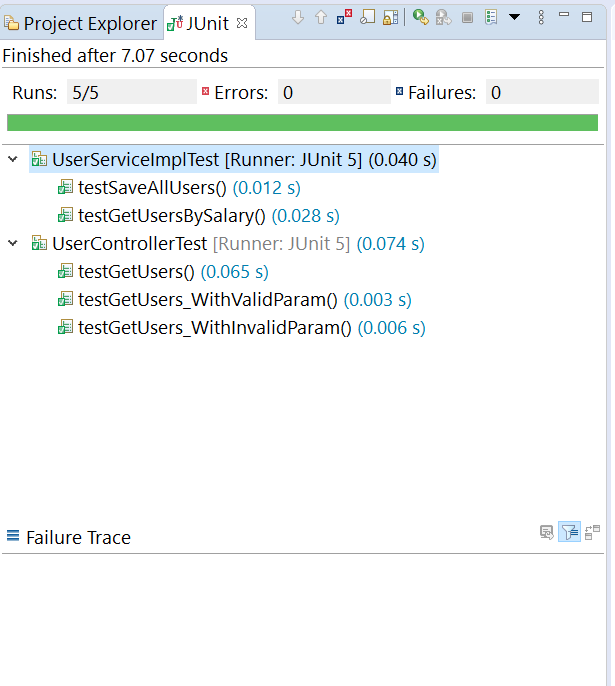
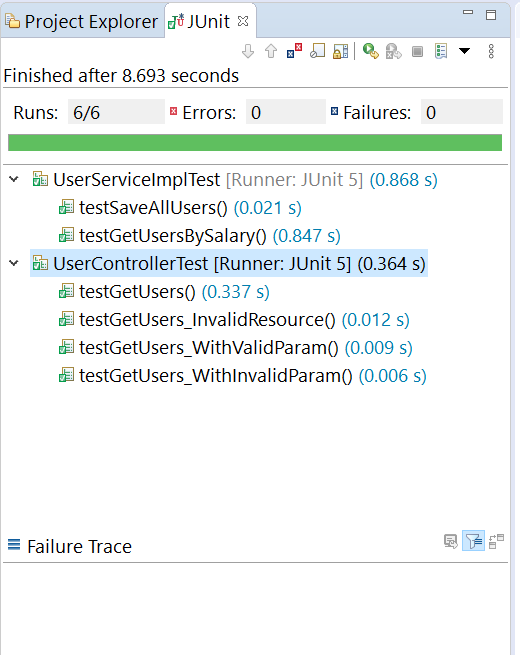
Refactored

Changed region(s): [[0.0, 0.0, 1.0, 1.0], [0.0, 0.7634, 0.2462, 0.8855]]

diff --git a/cds/src/test/java/com/cognizant/cds/controller/UserControllerTest.java b/cds/src/test/java/com/cognizant/cds/controller/UserControllerTest.java
@@ -63,6 +63,18 @@ public class UserControllerTest {
 	}
 
 	/**
+	 * Tests for invalid API endpoint
+	 */
+	@Test
+	public void testGetUsers_InvalidResource() throws Exception {
+
+		Mockito.when(userService.getAllUsers()).thenReturn(userList);
+
+		this.mockMvc.perform(get("/alluser"))
+				.andExpect(status().isNotFound());
+	}
+
+	/**
 	 * Tests /users endpoint with valid (numeric value) salary parameter
 	 */
 	@Test
